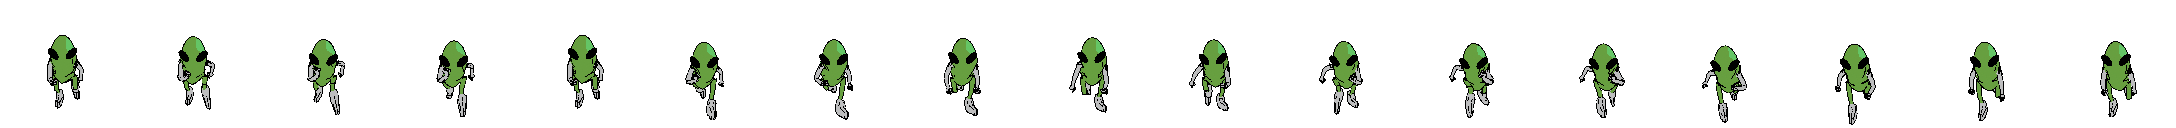
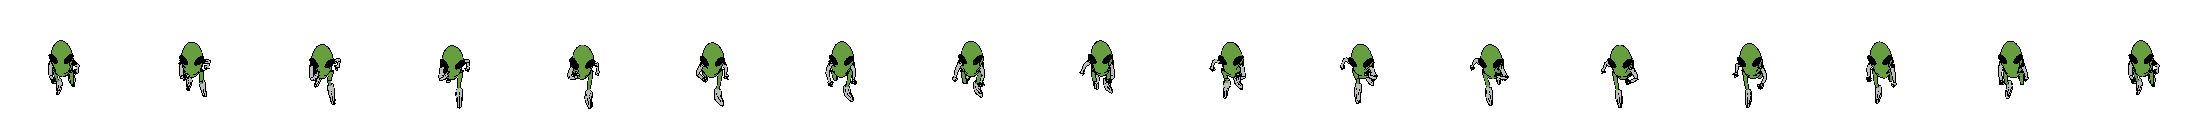
animations enemies

diff --git a/src/components/Enemies.js b/src/components/Enemies.js
@@ -19,25 +19,24 @@ export default class Enemies extends Phaser.GameObjects.Group {
     createBullet() {
         const x = this.getRndX();
         const numberEnemy = Phaser.Math.Between(0, 1)
-        let enemy = '';
-        console.log(numberEnemy);
-        switch (numberEnemy ) {
-            case 1:
-                enemy = this.scene.physics.add.sprite(x, 0, 'tarro', 0);
-                enemy.name = 'tarro';
+        let texture;
+        switch (numberEnemy) {
+            case 0:
+                texture = 'tarro';
                 break;
         
             default:
-                enemy = this.scene.physics.add.sprite(x, 0, 'chicharo', 0);
-                enemy.name = 'chicharo';
+                texture = 'chicharo';
                 break;
         }
-        
-        enemy.setScale(1.5);
-        this.scene.physics.world.enable(enemy);
-        this.add(enemy);
 
+        let enemy = this.scene.physics.add.sprite(x, 0, texture, 0);
+        enemy.name = texture;
+        enemy.setScale(1.5);
         enemy.body.setSize(80, 80);
+        this.add(enemy);
+        this.scene.physics.world.enable(enemy);
+
         
         
         this.moveX(enemy, x);
@@ -107,9 +106,9 @@ export default class Enemies extends Phaser.GameObjects.Group {
             key: 'idle-' + child.name,
             frames: this.scene.anims.generateFrameNames(child.name, {
                 start: 0,
-                end: 15
+                end: 17
             }),
-            frameRate: 15,
+            frameRate: 17,
             repeat: -1
         });
 

diff --git a/src/scenes/Boot.js b/src/scenes/Boot.js
@@ -22,13 +22,13 @@ export default class Boot extends Phaser.Scene {
       });
 
       this.load.spritesheet('chicharo', 'enemies/chicharo.png', { 
-        frameWidth: 128, 
-        frameHeight: 128 
+        frameWidth: 130, 
+        frameHeight: 130 
       });
 
       this.load.spritesheet('tarro', 'enemies/tarro.png', { 
-        frameWidth: 128, 
-        frameHeight: 128 
+        frameWidth: 130, 
+        frameHeight: 130 
       });
 
       this.load.spritesheet('player-win', 'player/baileVictoria.png', { 

diff --git a/src/scenes/FailState.js b/src/scenes/FailState.js
@@ -55,7 +55,7 @@ export default class FailState extends Phaser.Scene {
         duration: 20000, // Duration of the transition in milliseconds
         onComplete: () => {
             // Callback function after the transition is complete
-            sprite.clearTint(); // Clear the tint to ensure no residual tint is left
+            this.playerContainer.player.clearTint(); // Clear the tint to ensure no residual tint is left
         }
       });
 
